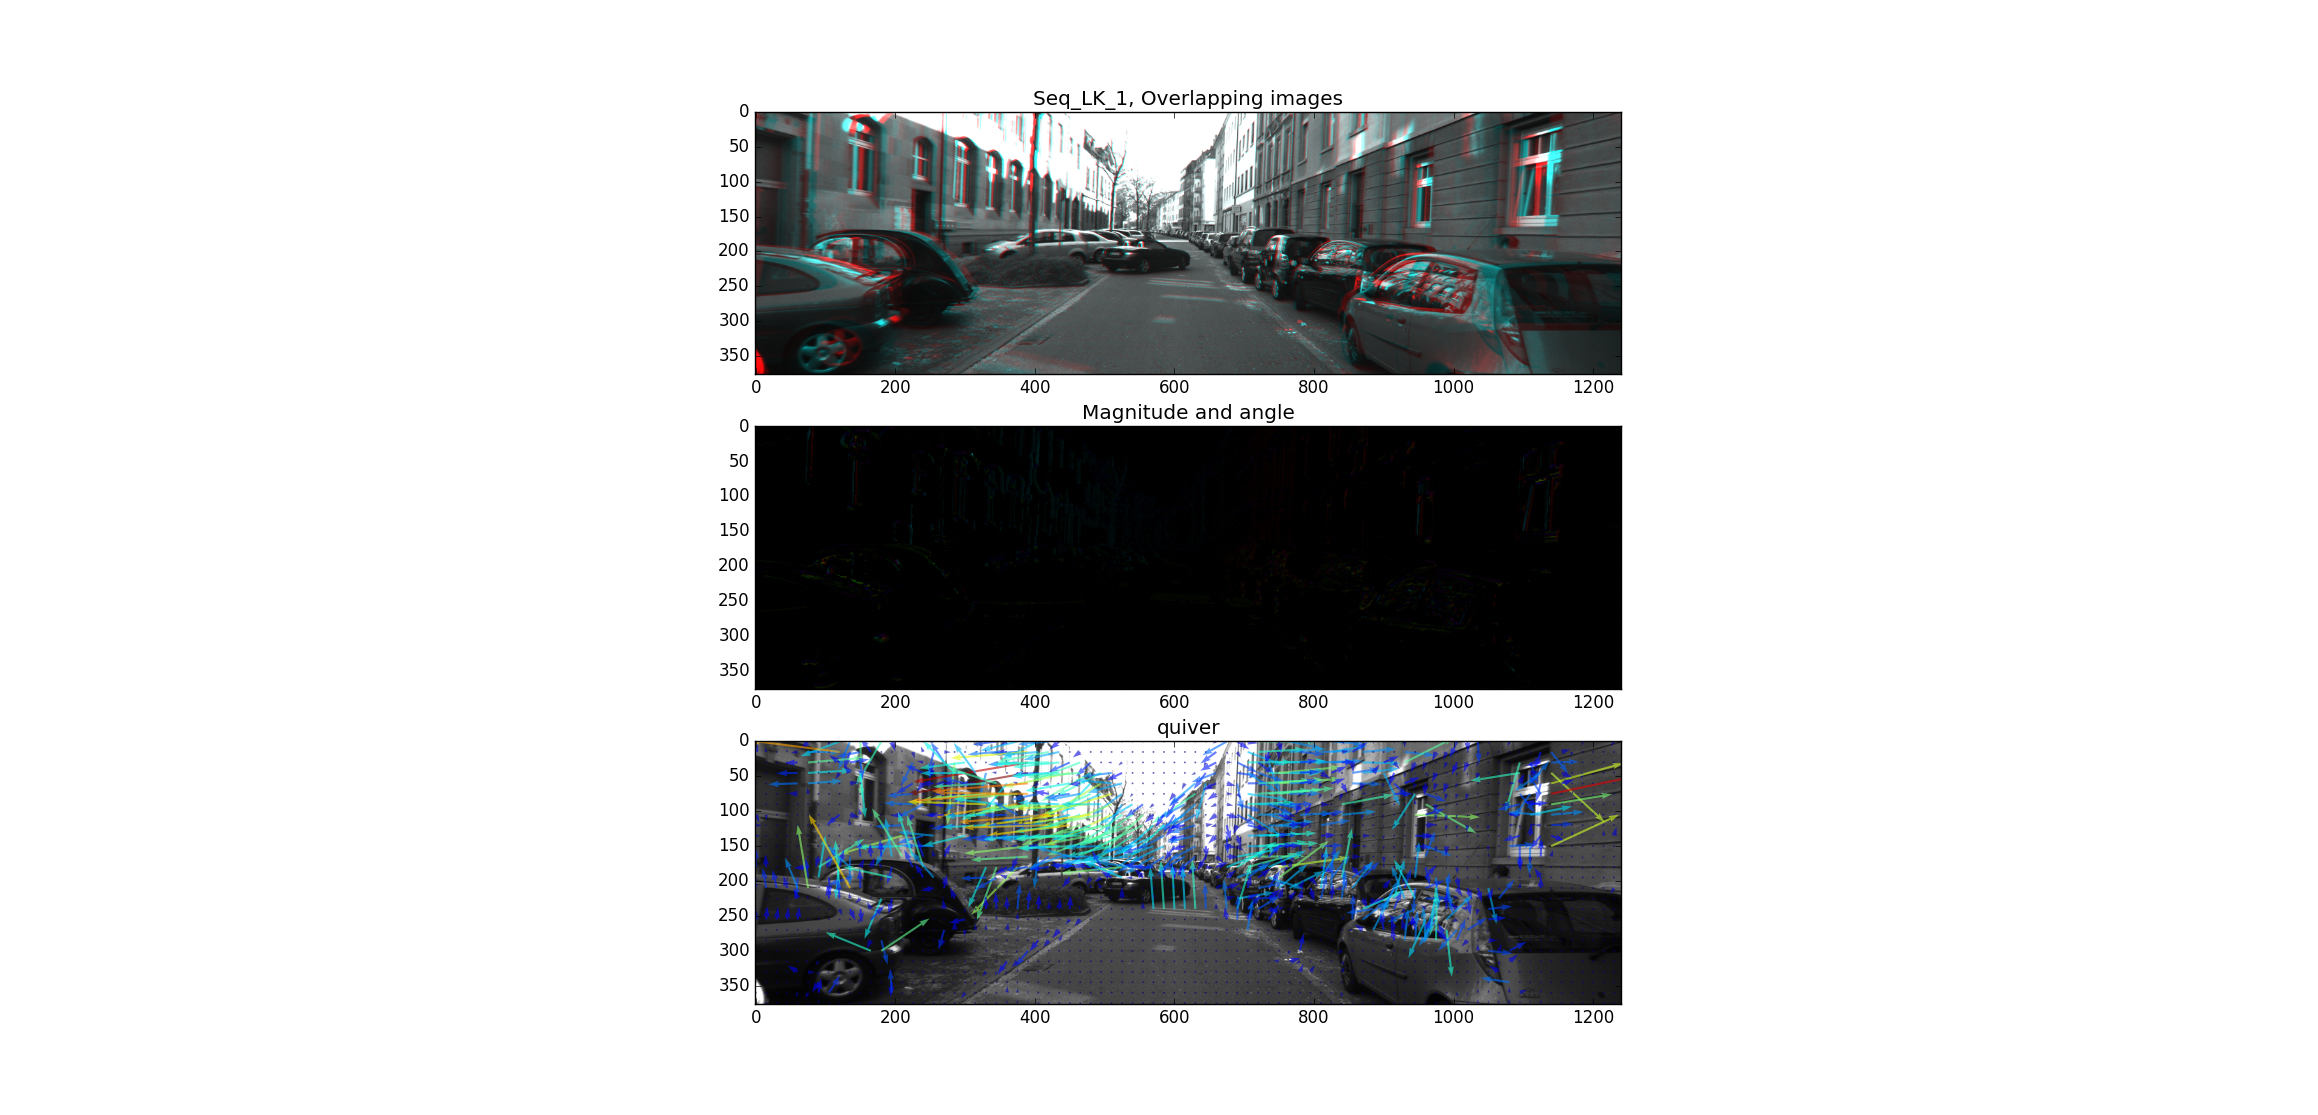
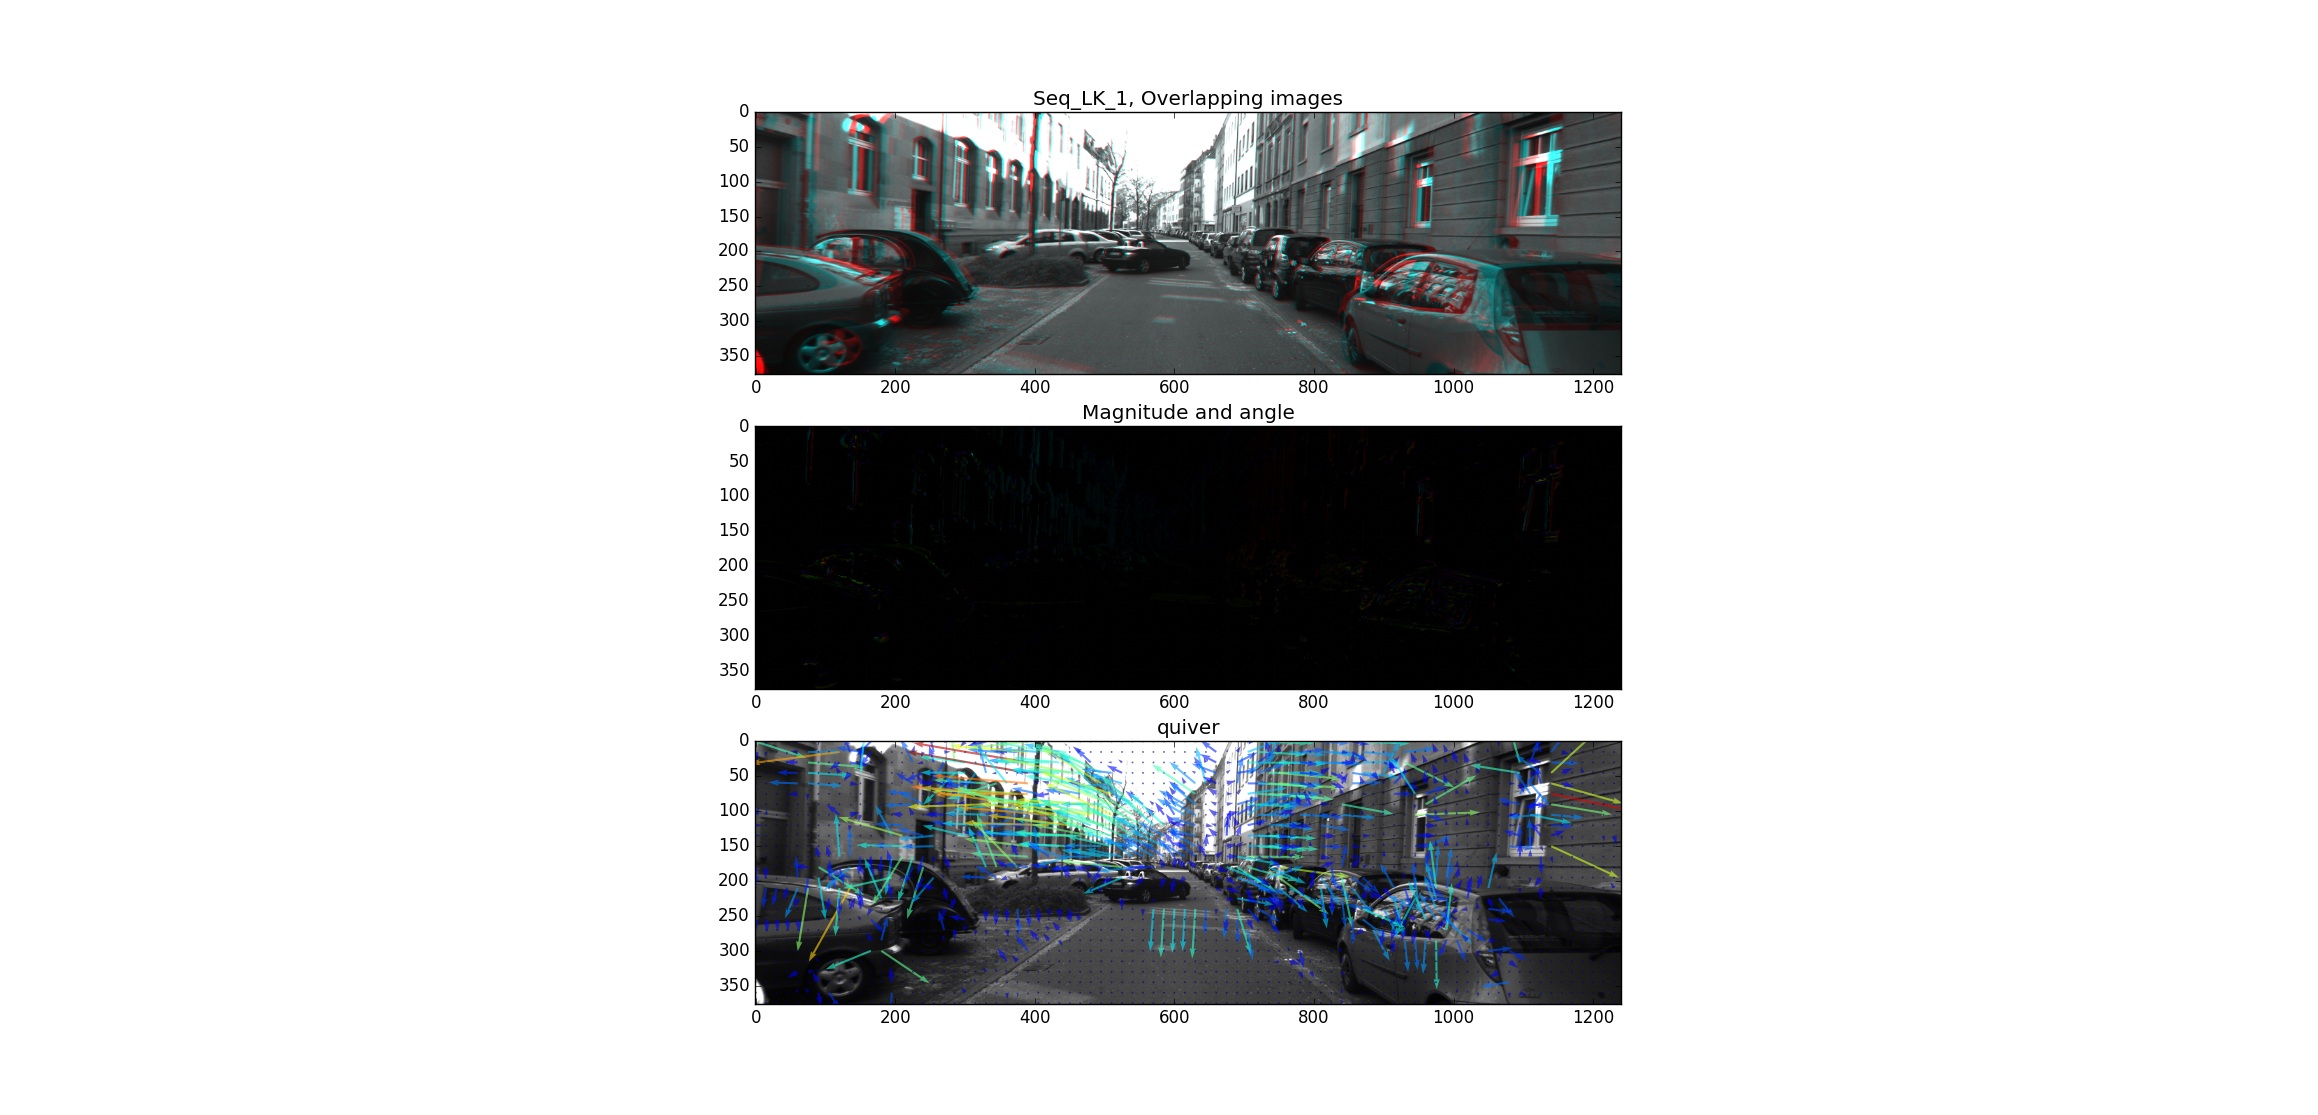
...

Changed region(s): [[0.3106, 0.6404, 0.7144, 0.8843]]

diff --git a/code/main_OF.py b/code/main_OF.py
@@ -77,12 +77,12 @@ if Task_3_4:
 # read original images
     Im1 = cv.imread(img_folder+seq1,cv.IMREAD_GRAYSCALE)
     Im1_2 = cv.imread(img_folder+seq1_2,cv.IMREAD_GRAYSCALE)
-    ut.plotOF(Im1,Im1_2,u1gt,v1gt, 10,'Seq_GT_1')
+    ut.plotOF(Im1,Im1_2,u1gt,v1gt, 15,'Seq_GT_1')
 
     Im2 = cv.imread(img_folder+seq2,cv.IMREAD_GRAYSCALE)
     Im2_2 = cv.imread(img_folder+seq2_2,cv.IMREAD_GRAYSCALE)
-    ut.plotOF(Im2, Im2_2,u2gt,v2gt,10,'Seq_GT_2')
+    ut.plotOF(Im2, Im2_2,u2gt,v2gt,15,'Seq_GT_2')
 
 
-    ut.plotOF(Im1,Im1_2, u1lk,v1lk,10,'Seq_LK_1')
-    ut.plotOF(Im2, Im2_2,u2lk,v2lk,10,'Seq_LK_2')
+    ut.plotOF(Im1,Im1_2, u1lk,v1lk,15,'Seq_LK_1')
+    ut.plotOF(Im2, Im2_2,u2lk,v2lk,15,'Seq_LK_2')

diff --git a/code/utils_opticalFlow.py b/code/utils_opticalFlow.py
@@ -114,7 +114,7 @@ def plotOF(img1,img2, Fu, Fv, step = 20 , title_ = 'Test' ):
     ax1.set_title(title_ + ", Overlapping images")
     M = np.hypot(Fu_dn,Fv_dn)
     #Q = ax2.quiver(X,Y,Fu_dn,Fv_dn,M,units='xy' ,alpha=0.6)
-    Q = ax2.quiver(X,Y,Fu_dn,Fv_dn,M,units='xy' ,alpha=0.6)
+    Q = ax2.quiver(X,Y,Fu_dn,-Fv_dn,M,units='xy' ,alpha=0.6)
     plt.show()
     #plt.savefig('OF' + title_ + '.png')
     #cv.waitKey()
